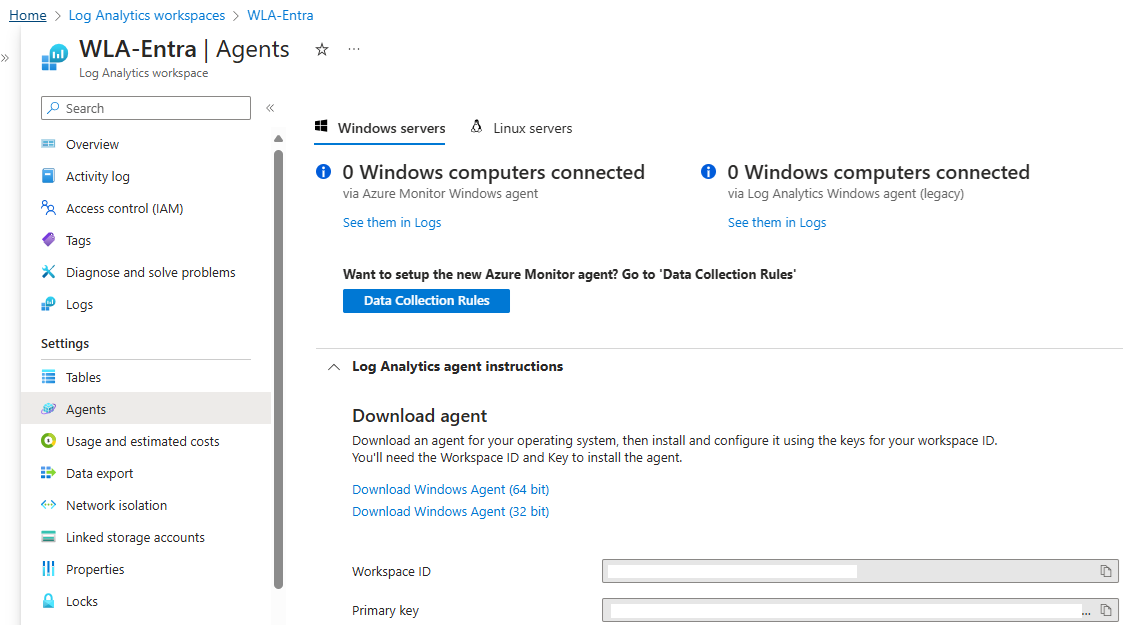
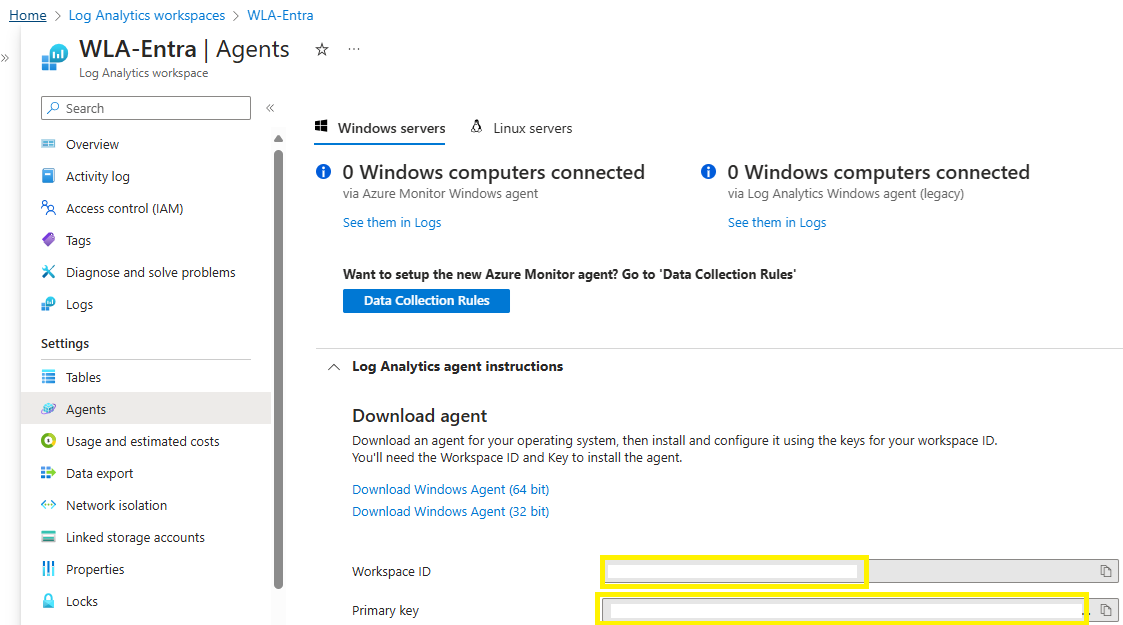
-

Changed region(s): [[0.5298, 0.8816, 0.9973, 1.0]]

diff --git a/Documentations/RDI-DeployAutomationAccount.md b/Documentations/RDI-DeployAutomationAccount.md
@@ -123,9 +123,11 @@ $Sharekey (line 1004)
 It’s your key of your Log Analytic
 ```
 
-AppID can be find, here
+AppID can be found here :
 
 ![alt text](https://github.com/B1129E5/LP-RDI/blob/main/Documentations/Images/Image25.png)
+Your Workspace and shared key can be found here :
+![alt text](https://github.com/B1129E5/LP-RDI/blob/main/Documentations/Images/Image26.png)
 
 1.   Click on **Publish** button and click **Yes**
 
